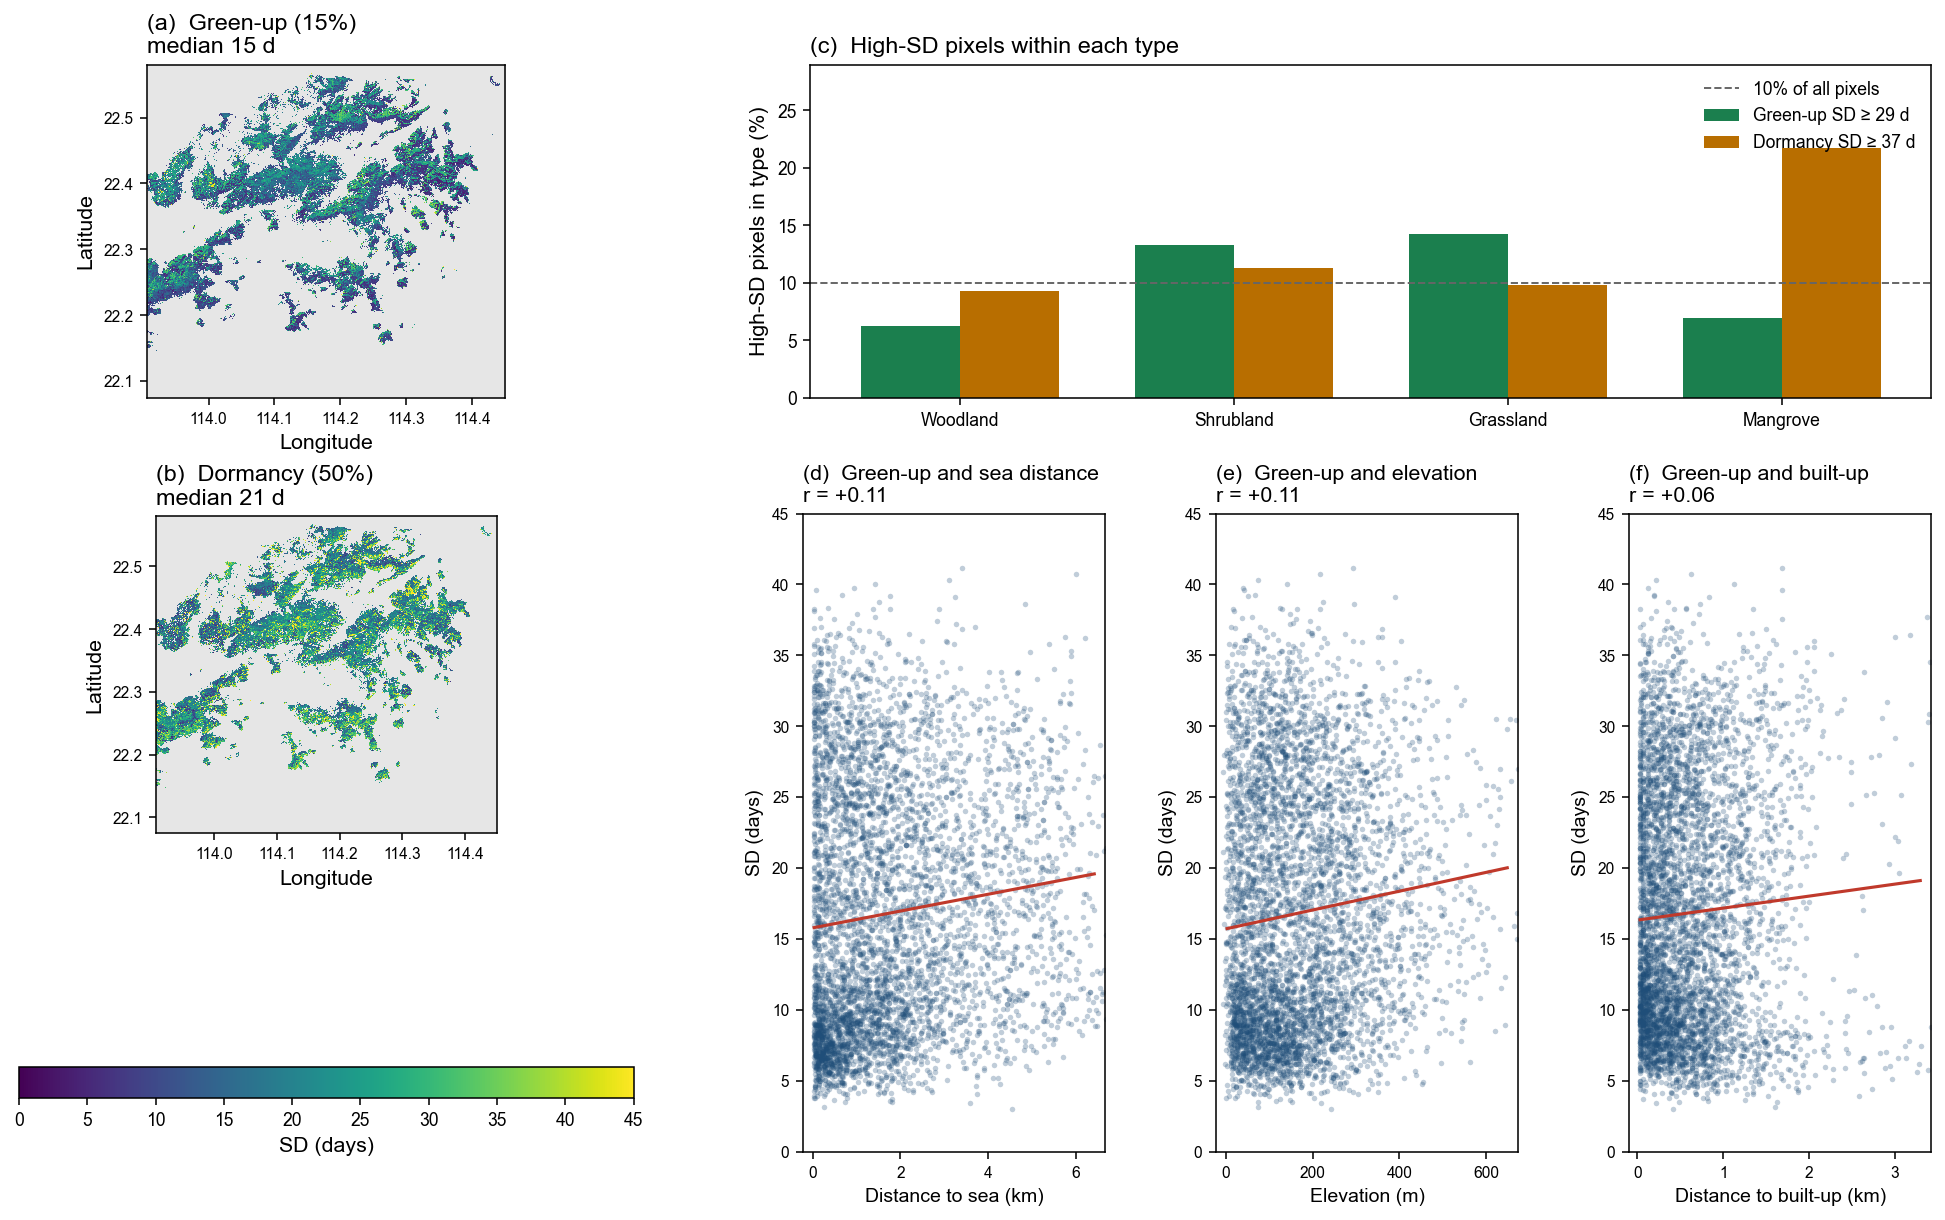
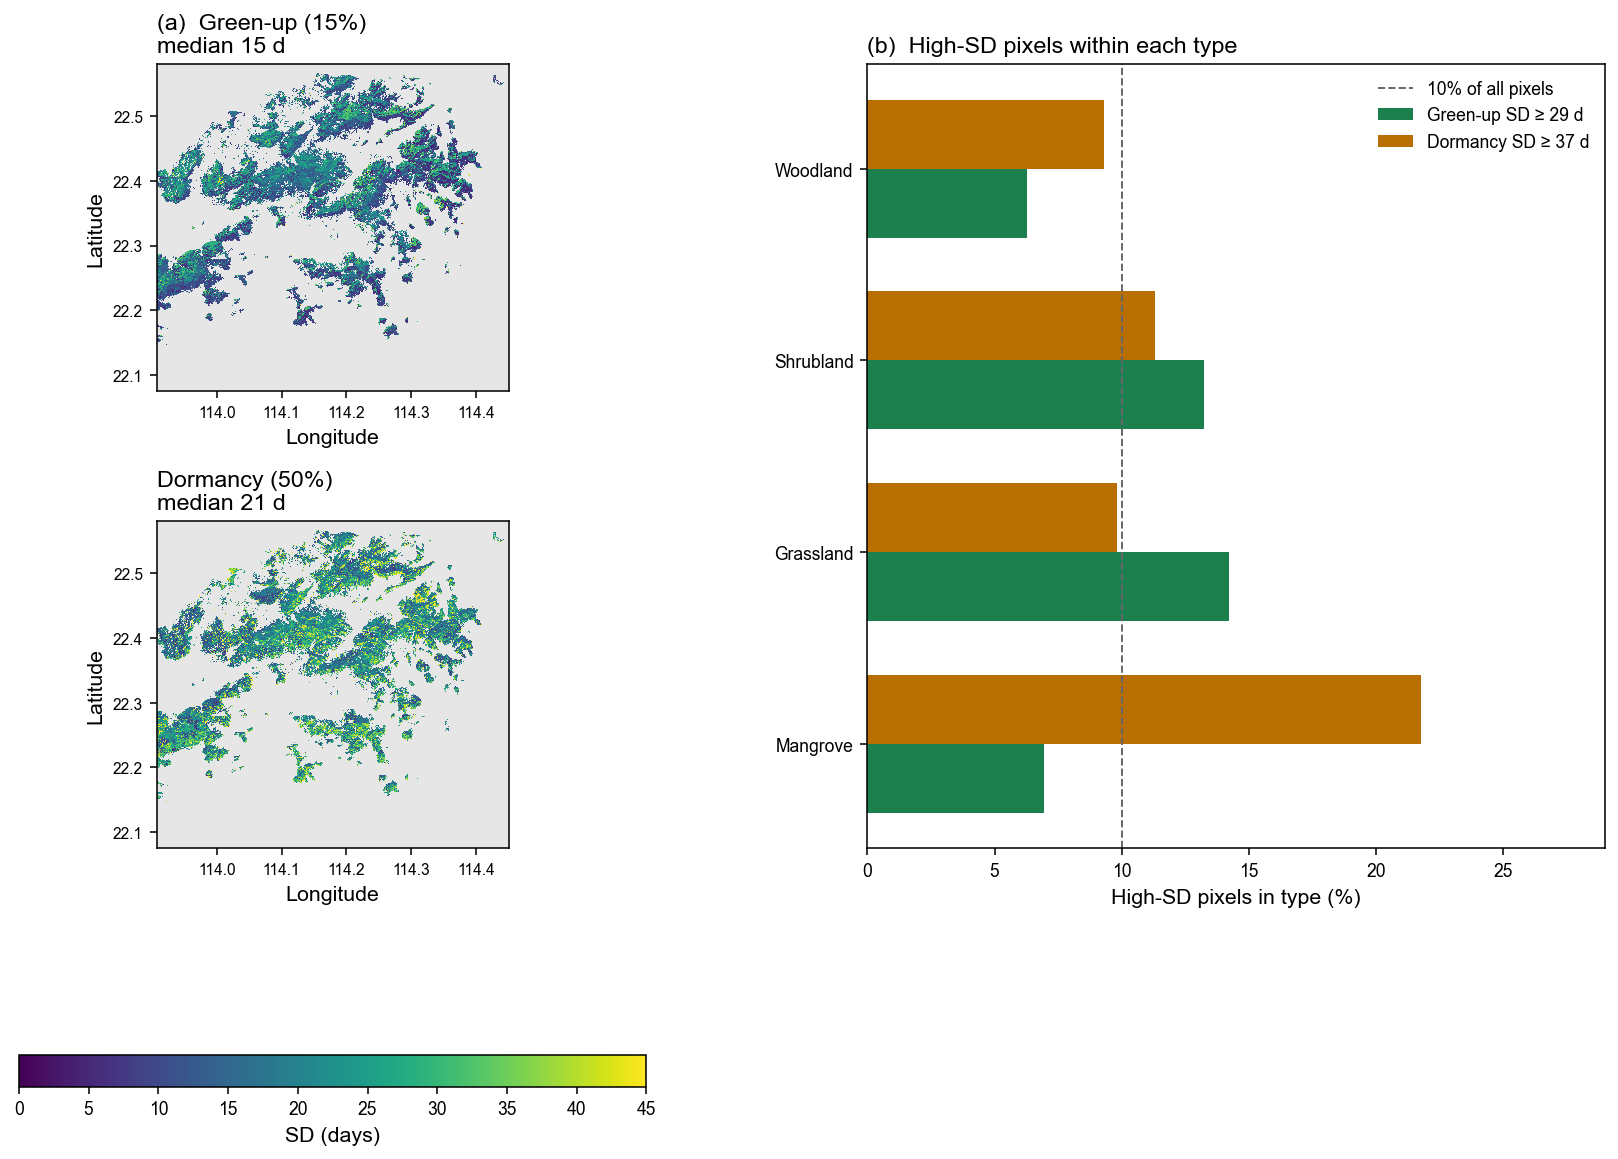
Leave the variance figure as the 30 m maps and a type bar.
The bar is horizontal and shows the high-SD rate inside each land-cover type. The scatter panels are gone.

diff --git a/analyze_date_variance.py b/analyze_date_variance.py
@@ -2,8 +2,8 @@
 """Year-to-year spread of 30 m green-up and dormancy.
 
 Pixels need six valid years. The maps are the standard deviation across years.
-The right-hand panels show the land cover of the high-SD pixels and the
-environmental factors that still correlate once slope and aspect are left out.
+The right-hand panel is the share of each land-cover type that falls in the
+high-SD tail. It records where the spread shows up, not why.
 """
 from __future__ import annotations
 
@@ -18,22 +18,15 @@ import numpy as np
 import pandas as pd
 from matplotlib.colors import Normalize
 from netCDF4 import Dataset
-from scipy.ndimage import distance_transform_edt
-from scipy.stats import linregress, pearsonr
-
-from analyze_global_extremes import load_hgt, sample_elev
 from plot_style import arial, use_arial
 
 ROOT = Path(__file__).resolve().parent
 PHENO = ROOT / "data/phenology/phenology_threshold_sl122_evi.nc"
 CUBE = ROOT / "data/phenology/veg_cube.nc"
-DEM = ROOT / "data/dem"
 FINAL = ROOT / "figures/final"
 FIG = ROOT / "figures"
-X0, Y0, PIX = 799980.0, 2500020.0, 30.0
 HEIGHT = 1830
 MIN_YEARS = 6
-URBAN = (1, 2, 3, 11, 21, 22, 23, 31, 41, 42, 43, 44)
 COVER = ((71, "Woodland"), (72, "Shrubland"), (73, "Grassland"), (74, "Mangrove"))
 
 
@@ -69,33 +62,6 @@ def paint_pixels(row: np.ndarray, col: np.ndarray, values: np.ndarray) -> np.nda
     return image
 
 
-def topography(row: np.ndarray, col: np.ndarray, lum: np.ndarray) -> dict[str, np.ndarray]:
-    tiles = {113: load_hgt(DEM / "N22E113.hgt"), 114: load_hgt(DEM / "N22E114.hgt")}
-    east = X0 + PIX * (np.arange(HEIGHT) + 0.5)
-    north = Y0 - PIX * (np.arange(HEIGHT) + 0.5)
-    ee, nn = np.meshgrid(east, north)
-    to_ll = __import__("pyproj").Transformer.from_crs(32649, 4326, always_xy=True)
-    lon, lat = to_ll.transform(ee, nn)
-    elev = sample_elev(np.asarray(lon, np.float64), np.asarray(lat, np.float64), tiles)
-    dz_row, dz_col = np.gradient(elev, PIX)
-    dz_north, dz_east = -dz_row, dz_col
-    horiz = np.hypot(dz_east, dz_north)
-    slope = np.degrees(np.arctan(horiz)).astype(np.float32)
-    northness = np.zeros(elev.shape, np.float32)
-    steep = horiz >= 0.02
-    northness[steep] = (-dz_north[steep] / horiz[steep]).astype(np.float32)
-    sea = distance_transform_edt(lum > 0).astype(np.float32) * PIX
-    urban = distance_transform_edt(~np.isin(lum, URBAN)).astype(np.float32) * PIX
-    return {
-        "elev": elev[row, col],
-        "slope": slope[row, col],
-        "northness": northness[row, col],
-        "sea_m": sea[row, col],
-        "urban_m": urban[row, col],
-        "lum": lum[row, col],
-    }
-
-
 def within_type_rate(lum: np.ndarray, ok: np.ndarray, high: np.ndarray) -> np.ndarray:
     """Fraction of each land-cover type whose pixels are in the high-SD set."""
     rates = []
@@ -116,70 +82,45 @@ def map_panel(ax, image, extent, title, norm, cmap, font) -> object:
     return im
 
 
-def scatter_panel(ax, x, y, title, xlabel, font, ylim) -> float:
-    finite = np.isfinite(x) & np.isfinite(y)
-    slope, intercept, r, _p, _se = linregress(x[finite], y[finite])
-    rng = np.random.default_rng(20261014)
-    take = rng.choice(np.flatnonzero(finite), size=5000, replace=False)
-    ax.scatter(x[take], y[take], s=8, c="#1f4e79", alpha=0.28, linewidths=0, rasterized=True)
-    lo, hi = np.percentile(x[finite], [1, 99])
-    pad = 0.04 * (hi - lo)
-    ax.plot(np.linspace(lo, hi, 40), intercept + slope * np.linspace(lo, hi, 40), color="#c0392b", lw=1.6)
-    ax.set_xlim(lo - pad, hi + pad)
-    ax.set_ylim(0, ylim)
-    ax.set_title(f"{title}\nr = {r:+.2f}", fontproperties=font, fontsize=11, loc="left")
-    ax.set_xlabel(xlabel, fontproperties=font, fontsize=10)
-    ax.set_ylabel("SD (days)", fontproperties=font, fontsize=10)
-    ax.tick_params(labelsize=8)
-    log(f"{title}  r {r:+.3f}  n {int(finite.sum())}")
-    return float(r)
-
-
-def draw(sos_img, eos_img, extent, shares, sos_sd, fields, sos_cut, eos_cut) -> None:
+def draw(sos_img, eos_img, extent, shares, sos_cut, eos_cut) -> None:
     use_arial()
     font = arial(11)
     small = arial(10)
-    fig = plt.figure(figsize=(14.4, 8.6), layout="constrained")
-    gs = fig.add_gridspec(2, 2, width_ratios=[1.02, 1.45], height_ratios=[1.05, 1.0])
-    ax_a = fig.add_subplot(gs[0, 0])
-    ax_b = fig.add_subplot(gs[1, 0])
-    ax_c = fig.add_subplot(gs[0, 1])
-    sub = gs[1, 1].subgridspec(1, 3, wspace=0.08)
-    ax_d = fig.add_subplot(sub[0, 0])
-    ax_e = fig.add_subplot(sub[0, 1])
-    ax_f = fig.add_subplot(sub[0, 2])
+    fig = plt.figure(figsize=(12.2, 8.4), layout="constrained")
+    gs = fig.add_gridspec(2, 2, width_ratios=[1.15, 1.0])
+    ax_sos = fig.add_subplot(gs[0, 0])
+    ax_eos = fig.add_subplot(gs[1, 0])
+    ax_bar = fig.add_subplot(gs[:, 1])
     finite = np.concatenate([sos_img[np.isfinite(sos_img)], eos_img[np.isfinite(eos_img)]])
     vmax = float(np.ceil(np.percentile(finite, 98) / 5.0) * 5.0)
     cmap = plt.get_cmap("viridis").copy()
     cmap.set_bad("#e6e6e6")
     norm = Normalize(0, vmax)
-    im = map_panel(ax_a, sos_img, extent, "(a)  Green-up (15%)", norm, cmap, font)
-    map_panel(ax_b, eos_img, extent, "(b)  Dormancy (50%)", norm, cmap, font)
-    cbar = fig.colorbar(im, ax=[ax_a, ax_b], orientation="horizontal", fraction=0.04, pad=0.22)
+    im = map_panel(ax_sos, sos_img, extent, "(a)  Green-up (15%)", norm, cmap, font)
+    map_panel(ax_eos, eos_img, extent, "Dormancy (50%)", norm, cmap, font)
+    cbar = fig.colorbar(im, ax=[ax_sos, ax_eos], orientation="horizontal", fraction=0.04, pad=0.18)
     cbar.set_label("SD (days)", fontproperties=font, fontsize=11)
     cbar.ax.tick_params(labelsize=9)
 
     labels = [name for _code, name in COVER]
-    x = np.arange(len(labels))
-    width = 0.36
+    y = np.arange(len(labels))
+    height = 0.36
     series = (
         (shares["sos"], "#1b7f4e", f"Green-up SD ≥ {sos_cut:.0f} d"),
         (shares["eos"], "#b86e00", f"Dormancy SD ≥ {eos_cut:.0f} d"),
     )
     for i, (values, color, label) in enumerate(series):
-        ax_c.bar(x + (i - 0.5) * width, 100 * values, width=width, color=color, label=label)
-    ax_c.axhline(10, color="#666666", lw=1.0, ls="--", label="10% of all pixels")
-    ax_c.set_xticks(x)
-    ax_c.set_xticklabels(labels, fontproperties=small, fontsize=10)
-    ax_c.set_ylabel("High-SD pixels in type (%)", fontproperties=font)
+        ax_bar.barh(y + (0.5 - i) * height, 100 * values, height=height, color=color, label=label)
+    ax_bar.axvline(10, color="#666666", lw=1.0, ls="--", label="10% of all pixels")
+    ax_bar.set_yticks(y)
+    ax_bar.set_yticklabels(labels, fontproperties=small, fontsize=11)
+    ax_bar.invert_yaxis()
+    ax_bar.set_xlabel("High-SD pixels in type (%)", fontproperties=font)
     top = float(np.nanmax([100 * values for values, _color, _label in series]))
-    ax_c.set_ylim(0, max(24, np.ceil(top / 5.0) * 5.0 + 4))
-    ax_c.set_title("(c)  High-SD pixels within each type", fontproperties=font, fontsize=12, loc="left")
-    ax_c.legend(frameon=False, prop=arial(9), loc="upper left")
-    ax_c.tick_params(labelsize=9)
-    scatter_panel(ax_d, fields["sea_m"] / 1000.0, sos_sd, "(d)  Green-up and sea distance", "Distance to sea (km)", font, vmax)
-    scatter_panel(ax_e, fields["elev"], sos_sd, "(e)  Green-up and elevation", "Elevation (m)", font, vmax)
-    scatter_panel(ax_f, fields["urban_m"] / 1000.0, sos_sd, "(f)  Green-up and built-up", "Distance to built-up (km)", font, vmax)
+    ax_bar.set_xlim(0, max(28, np.ceil(top / 5.0) * 5.0 + 4))
+    ax_bar.set_title("(b)  High-SD pixels within each type", fontproperties=font, fontsize=12, loc="left")
+    ax_bar.legend(frameon=False, prop=arial(9), loc="upper right")
+    ax_bar.tick_params(labelsize=9)
     path = FINAL / "10_phenology_interannual_sd.png"
     fig.savefig(path, dpi=140, bbox_inches="tight", facecolor="white")
     plt.close(fig)
@@ -187,17 +128,16 @@ def draw(sos_img, eos_img, extent, shares, sos_sd, fields, sos_cut, eos_cut) -> 
 
 
 def main() -> None:
-    row, col, sos, eos, lum = load_dates()
+    row, col, sos, eos, lum_grid = load_dates()
     sos_sd = pixel_sd(sos)
     eos_sd = pixel_sd(eos)
-    fields = topography(row, col, lum)
+    lum = lum_grid[row, col]
     meta = json.loads((ROOT / "data/meta.json").read_text())["bounds_lonlat"]
     extent = [meta["west"], meta["east"], meta["south"], meta["north"]]
     sos_ok = np.isfinite(sos_sd)
     eos_ok = np.isfinite(eos_sd)
     sos_cut = float(np.percentile(sos_sd[sos_ok], 90))
     eos_cut = float(np.percentile(eos_sd[eos_ok], 90))
-    lum = fields["lum"]
     shares = {
         "sos": within_type_rate(lum, sos_ok, sos_ok & (sos_sd >= sos_cut)),
         "eos": within_type_rate(lum, eos_ok, eos_ok & (eos_sd >= eos_cut)),
@@ -205,26 +145,20 @@ def main() -> None:
     for key, values in shares.items():
         text = "  ".join(f"{name} {100 * value:.1f}%" for (_code, name), value in zip(COVER, values))
         log(f"{key:4} {text}")
-    rows = []
-    for factor in ("elev", "sea_m", "urban_m"):
-        for target, sd, ok in (("green-up", sos_sd, sos_ok), ("dormancy", eos_sd, eos_ok)):
-            x = fields[factor]
-            mask = ok & np.isfinite(x)
-            r, p = pearsonr(x[mask], sd[mask])
-            rows.append({"factor": factor, "target": target, "r": r, "p": p, "n": int(mask.sum())})
-            log(f"{target:10} {factor:10} r {r:+.3f}")
     draw(
         paint_pixels(row, col, sos_sd),
         paint_pixels(row, col, eos_sd),
         extent,
         shares,
-        sos_sd,
-        fields,
         sos_cut,
         eos_cut,
     )
     out = FIG / "phenology_scale_variance.csv"
-    pd.DataFrame(rows).to_csv(out, index=False)
+    pd.DataFrame({
+        "type": [name for _code, name in COVER],
+        "greenup_high_sd_in_type": shares["sos"],
+        "dormancy_high_sd_in_type": shares["eos"],
+    }).to_csv(out, index=False)
     log(f"wrote {out}")
 
 
